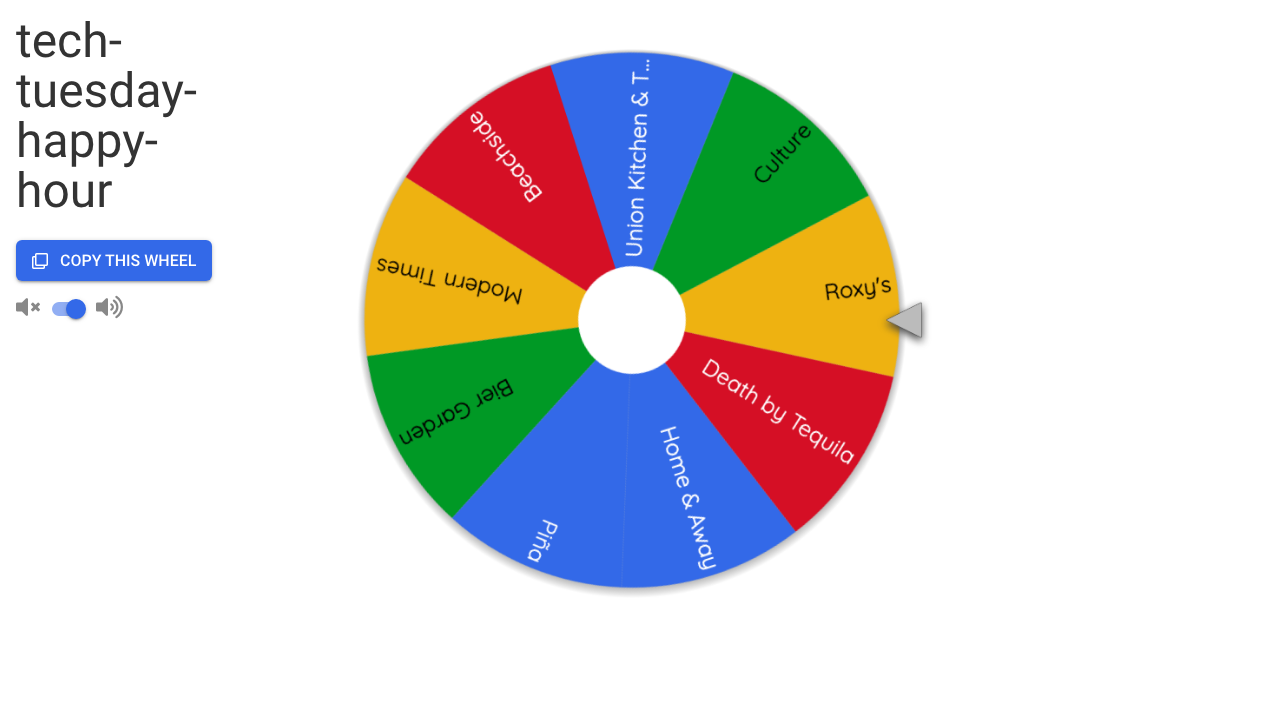
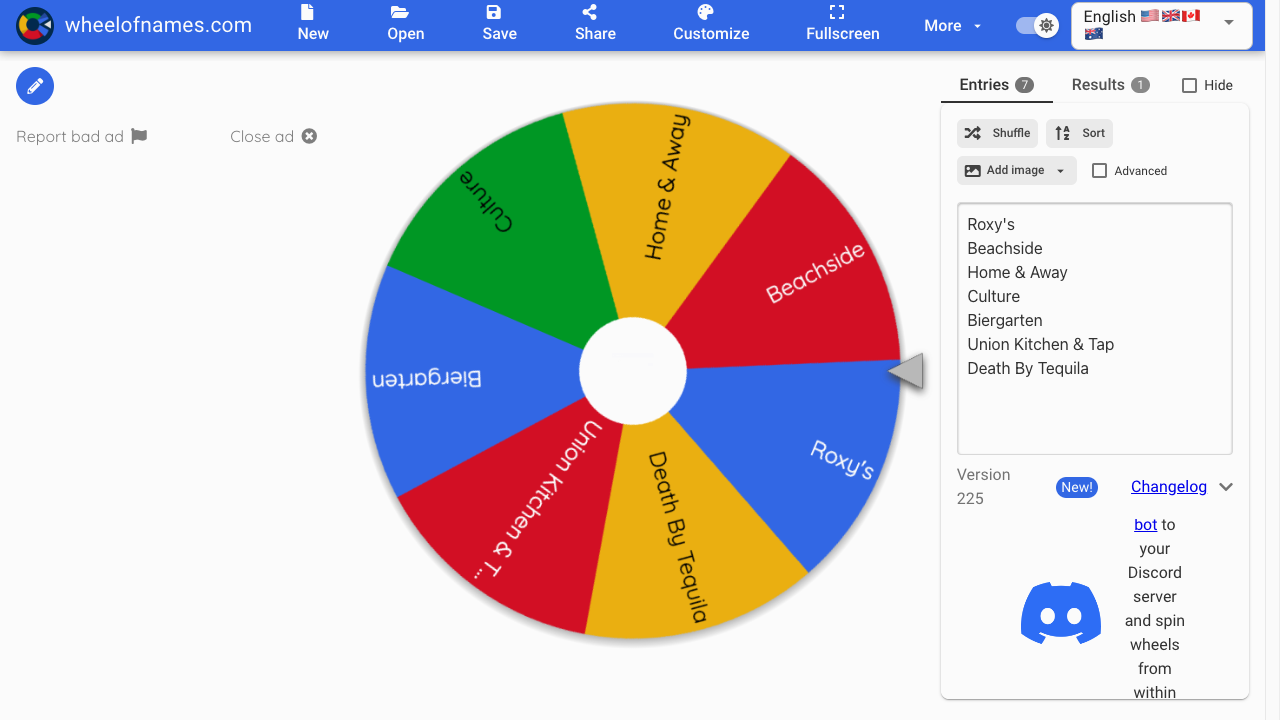
feat: autogenerate the board on the fly

diff --git a/tests/pages/wheel-of-names.ts b/tests/pages/wheel-of-names.ts
@@ -1,5 +1,6 @@
 import type {Locator, Page} from '@playwright/test';
 import {expect} from '@playwright/test';
+import {happyHourLocations} from '../../tools/places';
 
 export class WheelOfNamesPage {
 	readonly resultContainer: Locator;
@@ -16,16 +17,12 @@ export class WheelOfNamesPage {
 	}
 
 	async goto() {
-		await Promise.all([
-			// Ensure JS has been bootstrapped
-			this.page.waitForRequest('**/*logSharedWheelRead'),
-			// This action triggers the request
-			this.page.goto('https://wheelofnames.com/95m-aky'),
-		]);
+		await this.page.goto('https://wheelofnames.com');
+		await this.page.locator('div.basic-editor').fill(happyHourLocations.join('\n'));
 	}
 
 	async spinWheel() {
-		await this.instructionLayer.isVisible();
+		// Await this.instructionLayer.isVisible();
 		await this.page.press('html', 'Control+Enter');
 	}
 

diff --git a/tools/email.ts b/tools/email.ts
@@ -14,9 +14,9 @@ export async function sendEmailForHappyHour(location: string) {
 
 	const info = await transporter.sendMail({
 		from: '"Happy Hour Bot" <happy-hour@mail.lshadler.io>', // Sender address
-		to: 'social-lshadler-test-aaaahq4ztwhidtv7ejkgna3jha@flockfreight.slack.com', // List of receivers
-		subject: `We are going to ${location}!`,
-		html: '<img src="cid:wheel-spin-proof" alt="Wheel spin"/></img>',
+		to: process.env.SLACK_CHANNEL_EMAIL, // List of receivers
+		subject: `Wheel Spun! We are going to ${location}`,
+		html: '<img src="cid:wheel-spin-proof" width="500px" alt="Wheel spin"/></img>',
 		attachments: [
 			{
 				cid: 'wheel-spin-proof',

diff --git a/tools/__tests__/email.test.ts b/tools/__tests__/email.test.ts
@@ -19,7 +19,7 @@ describe('email sender', () => {
 		expect(mockTransport.sendMail).toHaveBeenCalledTimes(1);
 
 		expect(mockTransport.sendMail).toHaveBeenCalledWith(expect.objectContaining({
-			subject: 'We are going to Roxy\'s!',
+			subject: 'Wheel Spun! We are going to Roxy\'s',
 		}));
 
 		expect(consoleLogSpy).toHaveBeenCalledWith('Message sent: %s', 'test');

diff --git a/tests/happy-hour.spec.ts b/tests/happy-hour.spec.ts
@@ -7,6 +7,7 @@ test.describe('Happy Hour Wheel Spin', () => {
 		const result = await wheelOfNames.getResult();
 		await wheelOfNames.page.screenshot({
 			path: `${process.cwd()}/images/wheel-spin.png`,
+
 		});
 
 		console.log(`Option ${browserName}: ${result}`);

diff --git a/tools/places.ts b/tools/places.ts
@@ -1,0 +1,11 @@
+export const happyHourLocations = [
+	'Roxy\'s',
+	'Beachside',
+	'Home & Away',
+	'Culture',
+	'Biergarten',
+	'Union Kitchen & Tap',
+	'Death By Tequila',
+	'Piña',
+	'Modern Times',
+];

diff --git a/tools/__tests__/places.test.ts b/tools/__tests__/places.test.ts
@@ -1,0 +1,7 @@
+import {happyHourLocations} from '../places';
+
+describe('Places', () => {
+	it('matches snapshot (sorry Zane)', () => {
+		expect(happyHourLocations).toMatchSnapshot();
+	});
+});
